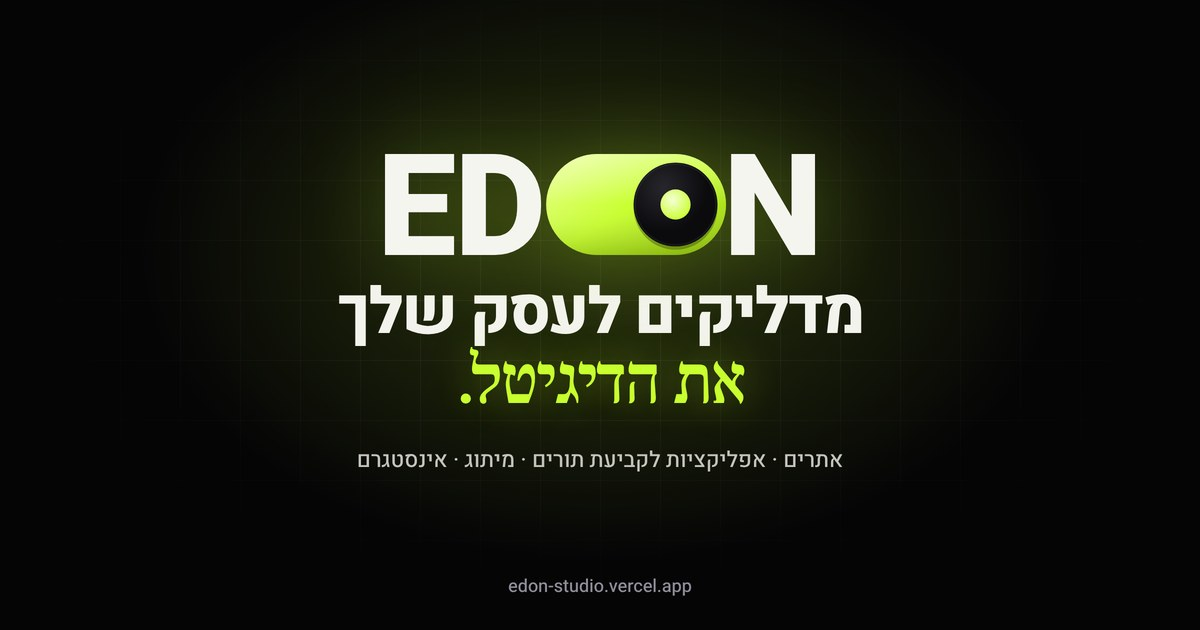
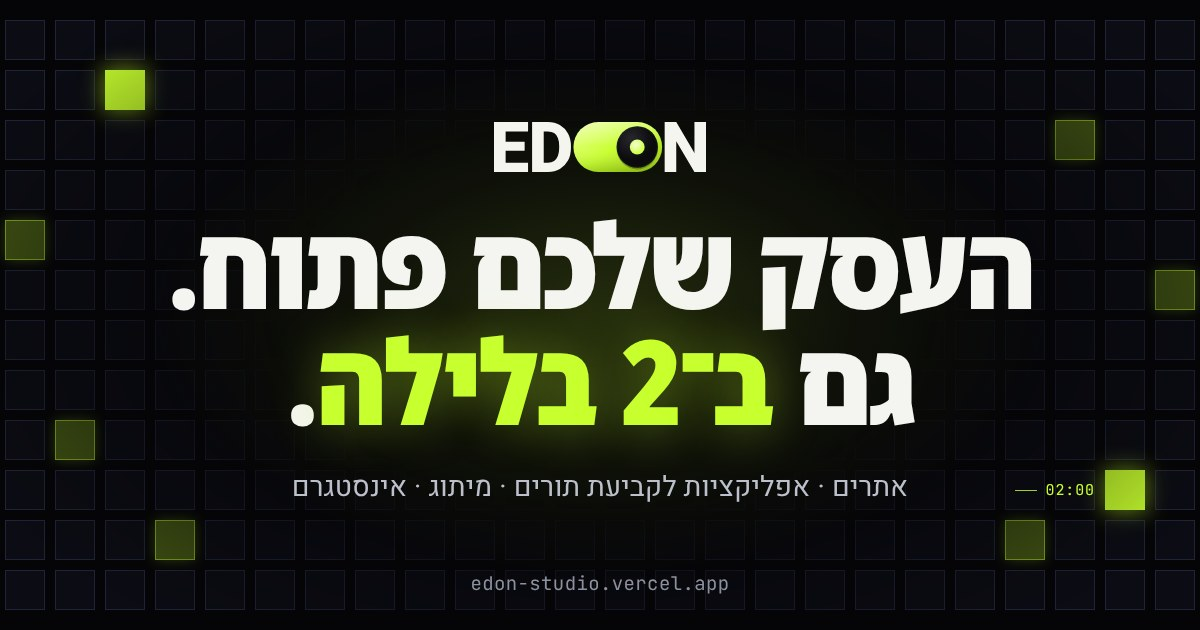
Share image matches the new homepage
The link preview (og.jpg) showed the old hero. It now shows the night-shift design: the EDON logo, 'העסק שלכם פתוח. גם ב־2 בלילה.', the services line and the address over the grid of hours with the 02:00 lamp. The page references it as og.jpg?v=2 so apps that cached the old preview fetch the new one, and declares its size, alt text and a twitter:image.

Claude-Session: https://claude.ai/code/session_01VRwxxhZKYjp1UKEHVU6T1v

diff --git a/index.html b/index.html
@@ -17,8 +17,12 @@
 <meta property="og:title" content="EDON – העסק שלכם פתוח. גם ב־2 בלילה.">
 <meta property="og:description" content="EDON בונה לעסקים קטנים אתרים, אפליקציות לקביעת תורים, מיתוג ואינסטגרם. הלקוחות קובעים תור לבד, בכל שעה. מאפס ועד באוויר, לרוב תוך 7 ימי עבודה מאישור העיצוב.">
 <meta property="og:url" content="https://edon-studio.vercel.app/">
-<meta property="og:image" content="https://edon-studio.vercel.app/og.jpg">
+<meta property="og:image" content="https://edon-studio.vercel.app/og.jpg?v=2">
+<meta property="og:image:width" content="1200">
+<meta property="og:image:height" content="630">
+<meta property="og:image:alt" content="EDON – העסק שלכם פתוח. גם ב־2 בלילה. אתרים, אפליקציות לקביעת תורים, מיתוג ואינסטגרם.">
 <meta name="twitter:card" content="summary_large_image">
+<meta name="twitter:image" content="https://edon-studio.vercel.app/og.jpg?v=2">
 <script src="/x/boot.js"></script>
 <link rel="preload" href="/x/fonts/noto-hebrew.woff2" as="font" type="font/woff2" crossorigin>
 <link rel="preload" href="/x/fonts/heebo-hebrew.woff2" as="font" type="font/woff2" crossorigin>
